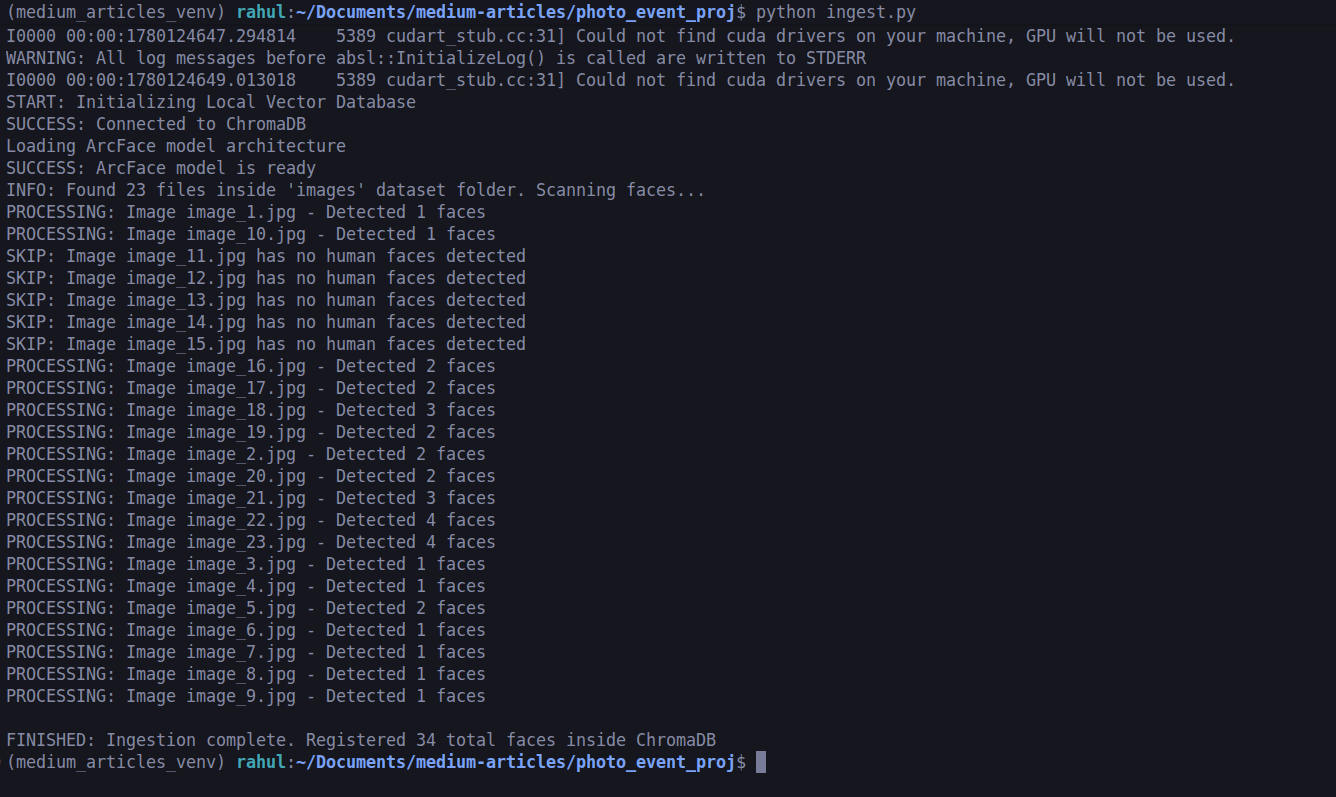
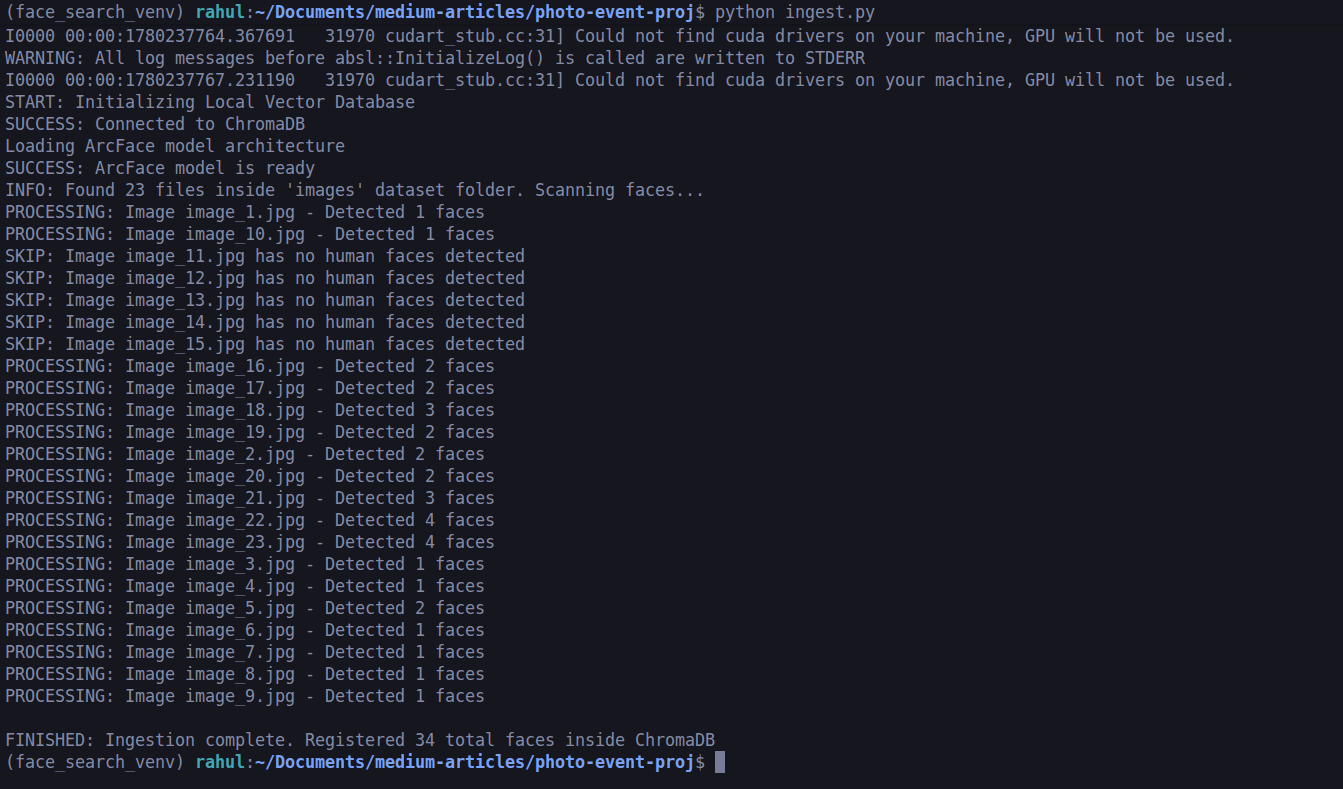
updated app.py

Changed region(s): [[0.0, 0.0, 0.9207, 0.9734]]

diff --git a/app.py b/app.py
@@ -36,108 +36,127 @@ def initialize_backend():
 
 collection, face_cascade = initialize_backend()
 
-# SIDEBAR: Clean user mapping using your exact filenames directly
+# SIDEBAR: Registration dropdown with View All option added above attendees
 st.sidebar.header("User Registration Portal")
 selected_user = st.sidebar.selectbox(
     "Choose User to Retrieve Photos:",
-    ["-- Select Attendee --", "Chris Tucker", "Jackie Chan"]
+    ["-- Select Attendee --", "View All Images", "Chris Tucker", "Jackie Chan"]
 )
 
 if selected_user != "-- Select Attendee --":
-    st.sidebar.write(f"Querying profile records for: **{selected_user}**")
-    
-    # Direct path mapping without messy conditional block clusters
-    filename_map = {"Chris Tucker": "chris_tucker.png", "Jackie Chan": "jackie_chan.png"}
-    sample_path = f"test_images/{filename_map[selected_user]}"
-    
-    if not os.path.exists(sample_path):
-        st.sidebar.error(f"Missing registration asset: '{sample_path}'")
-        st.stop()
+    matched_photo_paths = []
 
-    # Load and display active registration avatar in sidebar
-    opencv_img = cv2.imread(sample_path)
-    if opencv_img is None:
-        st.error(f"ERROR: Failed to decode {sample_path}")
-        st.stop()
+    # BRANCH 1: Retrieve every image stored inside the vector database index
+    if selected_user == "View All Images":
+        st.sidebar.write("Displaying all indexed gallery records.")
         
-    st.sidebar.image(cv2.cvtColor(opencv_img, cv2.COLOR_BGR2RGB), caption="Active Reference File", width=180)
-    
-    with st.spinner("Extracting face embeddings and searching vector index..."):
-        try:
-            # Face localization pipeline
-            gray = cv2.cvtColor(opencv_img, cv2.COLOR_BGR2GRAY)
-            detected_faces = face_cascade.detectMultiScale(gray, scaleFactor=1.1, minNeighbors=5)
+        # Get all entries from the collection
+        all_records = collection.get(include=["metadatas"])
+        if all_records and "metadatas" in all_records and all_records["metadatas"]:
+            for metadata in all_records["metadatas"]:
+                path = metadata["file_path"]
+                if os.path.exists(path) and path not in matched_photo_paths:
+                    matched_photo_paths.append(path)
+
+    # BRANCH 2: Perform face recognition and vector search for specific attendee
+    else:
+        st.sidebar.write(f"Querying profile records for: **{selected_user}**")
+        
+        # Direct path mapping without messy conditional block clusters
+        filename_map = {"Chris Tucker": "chris_tucker.png", "Jackie Chan": "jackie_chan.png"}
+        sample_path = f"test_images/{filename_map[selected_user]}"
+        
+        if not os.path.exists(sample_path):
+            st.sidebar.error(f"Missing registration asset: '{sample_path}'")
+            st.stop()
+
+        # Load and display active registration avatar in sidebar
+        opencv_img = cv2.imread(sample_path)
+        if opencv_img is None:
+            st.error(f"ERROR: Failed to decode {sample_path}")
+            st.stop()
             
-            if len(detected_faces) == 0:
-                st.warning("No face structure isolated from registration file.")
-                st.stop()
+        st.sidebar.image(cv2.cvtColor(opencv_img, cv2.COLOR_BGR2RGB), caption="Active Reference File", width=180)
+        
+        with st.spinner("Extracting face embeddings and searching vector index..."):
+            try:
+                # Face localization pipeline
+                gray = cv2.cvtColor(opencv_img, cv2.COLOR_BGR2GRAY)
+                detected_faces = face_cascade.detectMultiScale(gray, scaleFactor=1.1, minNeighbors=5)
                 
-            (x, y, w, h) = detected_faces[0]
-            cropped_face = opencv_img[y:y+h, x:x+w]
-
-            # Generate vector representations via ArcFace
-            user_embedding_objs = DeepFace.represent(
-                img_path=cropped_face, model_name="ArcFace", detector_backend="skip"
-            )
-            target_vector = user_embedding_objs[0]["embedding"]
-
-            # Query ChromaDB Vector space for matches
-            query_results = collection.query(query_embeddings=[target_vector], n_results=20)
-            matched_photo_paths = []
-
-            if query_results and 'metadatas' in query_results and len(query_results['metadatas'][0]) > 0:
-                raw_metadatas = query_results['metadatas'][0]
-                raw_distances = query_results['distances'][0]
-                
-                # Dynamic cutoff based on the maximum distance gap between consecutive matches
-                cutoff_index = len(raw_distances)
-                max_gap = 0.0
-                
-                for i in range(len(raw_distances) - 1):
-                    gap = raw_distances[i+1] - raw_distances[i]
-                    # A spike greater than 5.0 indicates a clear transition to a different person
-                    if gap > 5.0 and gap > max_gap:
-                        max_gap = gap
-                        cutoff_index = i + 1
-                        break
-                
-                # Filter results using the dynamic cutoff index
-                for idx in range(cutoff_index):
-                    path = raw_metadatas[idx]["file_path"]
-                    if os.path.exists(path) and path not in matched_photo_paths:
-                        matched_photo_paths.append(path)
-            
-            # SORT SYSTEM: Sort paths in ascending order naturally by file numeric ID string lengths
-            matched_photo_paths.sort(key=lambda x: [int(s) if s.isdigit() else s.lower() for s in os.path.basename(x).replace('.', '_').split('_')])
-
-            # RENDER LAYER: Display matches in a tight, clean 3-column table grid layout
-            st.subheader(f"True Vector Matched Photos found ({len(matched_photo_paths)} images)")
-            
-            if len(matched_photo_paths) > 0:
-                # Creates structural row arrays containing exactly 3 columns each
-                for i in range(0, len(matched_photo_paths), 3):
-                    row_paths = matched_photo_paths[i:i+3]
-                    cols = st.columns(3)
+                if len(detected_faces) == 0:
+                    st.warning("No face structure isolated from registration file.")
+                    st.stop()
                     
-                    for index, path in enumerate(row_paths):
-                        filename = os.path.basename(path)
-                        display_img = cv2.imread(path)
-                        
-                        if display_img is not None:
-                            with cols[index]:
-                                # Renders cleanly with fixed, clear image sizing parameters
-                                st.image(
-                                    cv2.cvtColor(display_img, cv2.COLOR_BGR2RGB), 
-                                    caption=filename, 
-                                    width=240
-                                )
-                        else:
-                            with cols[index]:
-                                st.error(f"Read error: {filename}")
-            else:
-                st.warning("No matching vectors found in database index matching this user profile within the confidence threshold.")
+                (x, y, w, h) = detected_faces[0]
+                cropped_face = opencv_img[y:y+h, x:x+w]
+
+                # Generate vector representations via ArcFace
+                user_embedding_objs = DeepFace.represent(
+                    img_path=cropped_face, model_name="ArcFace", detector_backend="skip"
+                )
+                target_vector = user_embedding_objs[0]["embedding"]
+
+                # Query ChromaDB Vector space for matches
+                query_results = collection.query(query_embeddings=[target_vector], n_results=20)
+
+                if query_results and 'metadatas' in query_results and len(query_results['metadatas'][0]) > 0:
+                    raw_metadatas = query_results['metadatas'][0]
+                    raw_distances = query_results['distances'][0]
+                    
+                    # Dynamic cutoff based on the maximum distance gap between consecutive matches
+                    cutoff_index = len(raw_distances)
+                    max_gap = 0.0
+                    
+                    for i in range(len(raw_distances) - 1):
+                        gap = raw_distances[i+1] - raw_distances[i]
+                        # A spike greater than 5.0 indicates a clear transition to a different person
+                        if gap > 5.0 and gap > max_gap:
+                            max_gap = gap
+                            cutoff_index = i + 1
+                            break
+                    
+                    # Filter results using the dynamic cutoff index
+                    for idx in range(cutoff_index):
+                        path = raw_metadatas[idx]["file_path"]
+                        if os.path.exists(path) and path not in matched_photo_paths:
+                            matched_photo_paths.append(path)
+                            
+            except Exception as err:
+                st.error(f"Execution Error running vector query engine: {str(err)}")
+                st.stop()
+    
+    # SORT SYSTEM: Sort paths in ascending order naturally by file numeric ID string lengths
+    matched_photo_paths.sort(key=lambda x: [int(s) if s.isdigit() else s.lower() for s in os.path.basename(x).replace('.', '_').split('_')])
+
+    # RENDER LAYER: Display matches in a tight, clean 3-column table grid layout
+    if selected_user == "View All Images":
+        st.subheader(f"All Gallery Images found ({len(matched_photo_paths)} images)")
+    else:
+        st.subheader(f"True Vector Matched Photos found ({len(matched_photo_paths)} images)")
+    
+    if len(matched_photo_paths) > 0:
+        # Creates structural row arrays containing exactly 3 columns each
+        for i in range(0, len(matched_photo_paths), 3):
+            row_paths = matched_photo_paths[i:i+3]
+            cols = st.columns(3)
+            
+            for index, path in enumerate(row_paths):
+                filename = os.path.basename(path)
+                display_img = cv2.imread(path)
                 
-        except Exception as err:
-            st.error(f"Execution Error running vector query engine: {str(err)}")
+                if display_img is not None:
+                    with cols[index]:
+                        # Renders cleanly with fixed, clear image sizing parameters
+                        st.image(
+                            cv2.cvtColor(display_img, cv2.COLOR_BGR2RGB), 
+                            caption=filename, 
+                            width=240
+                        )
+                else:
+                    with cols[index]:
+                        st.error(f"Read error: {filename}")
+    else:
+        st.warning("No photos found in the database index.")
 else:
     st.info("Please select an attendee profile from the sidebar dropdown menu to simulate matching.")